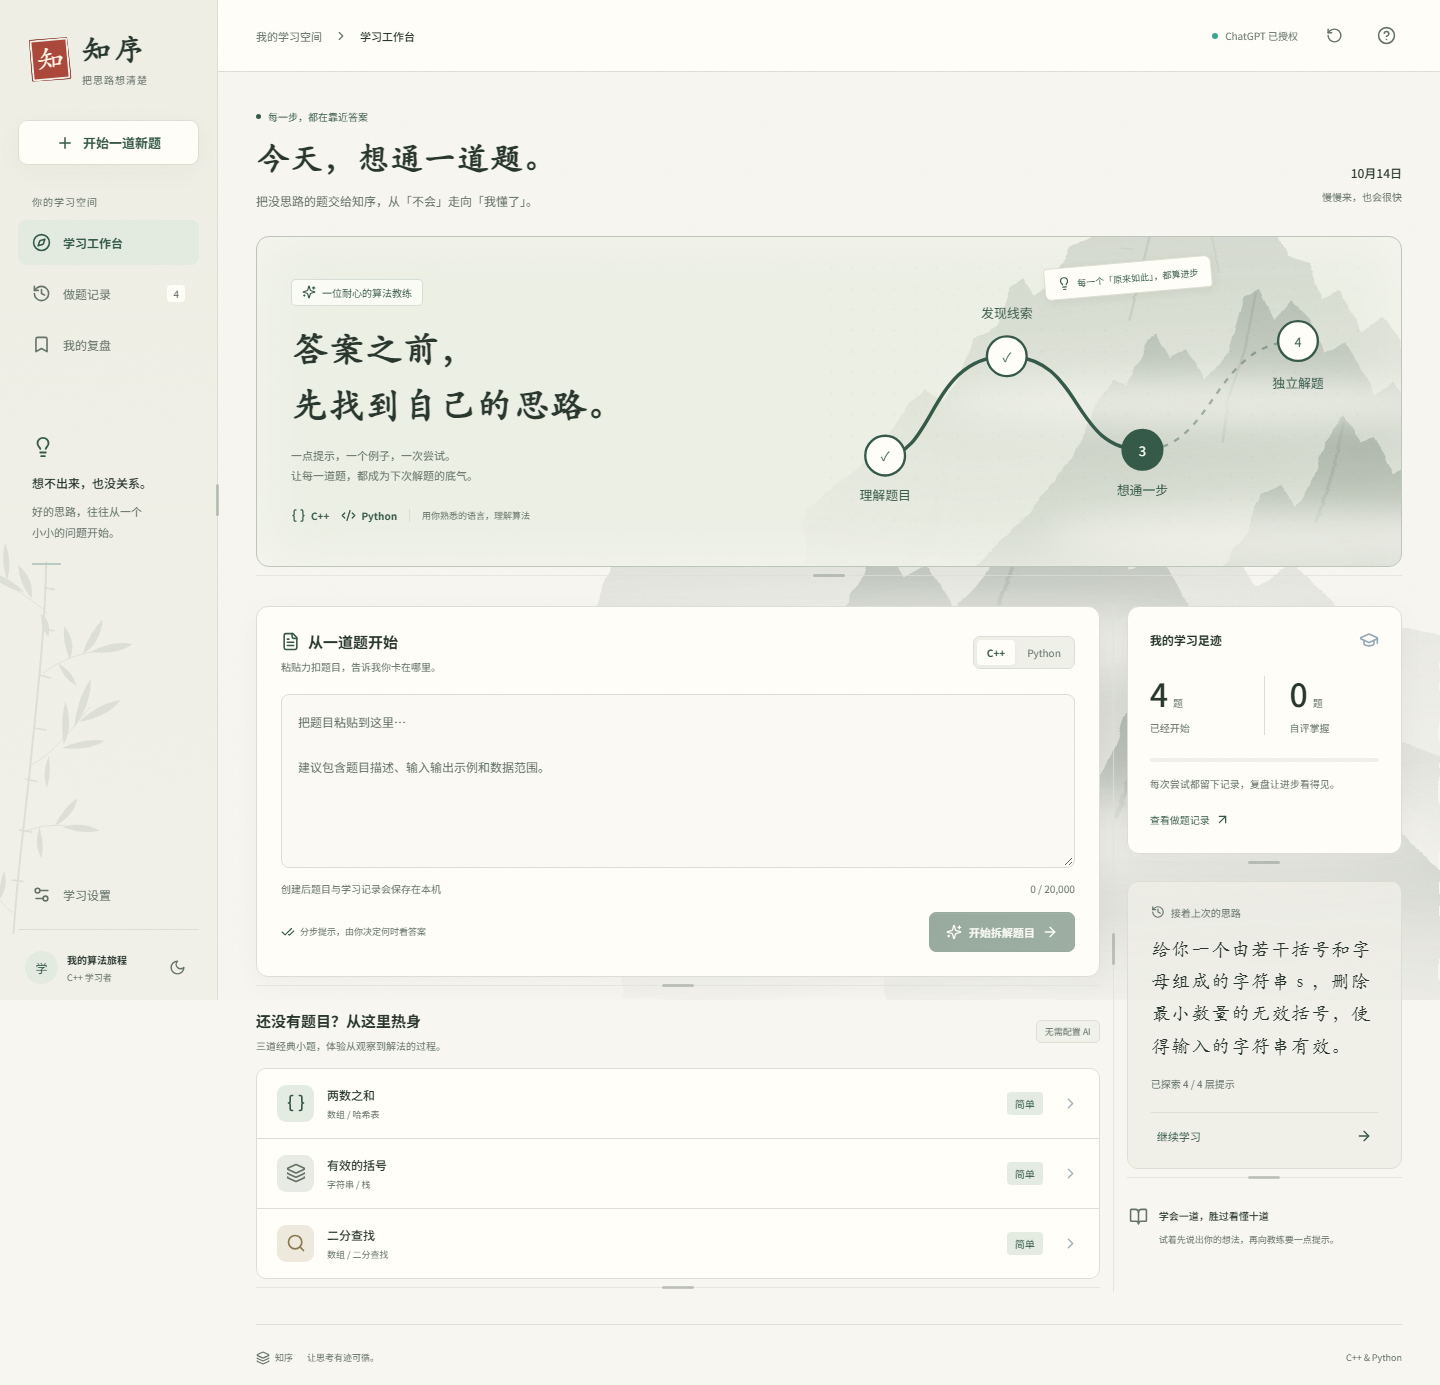
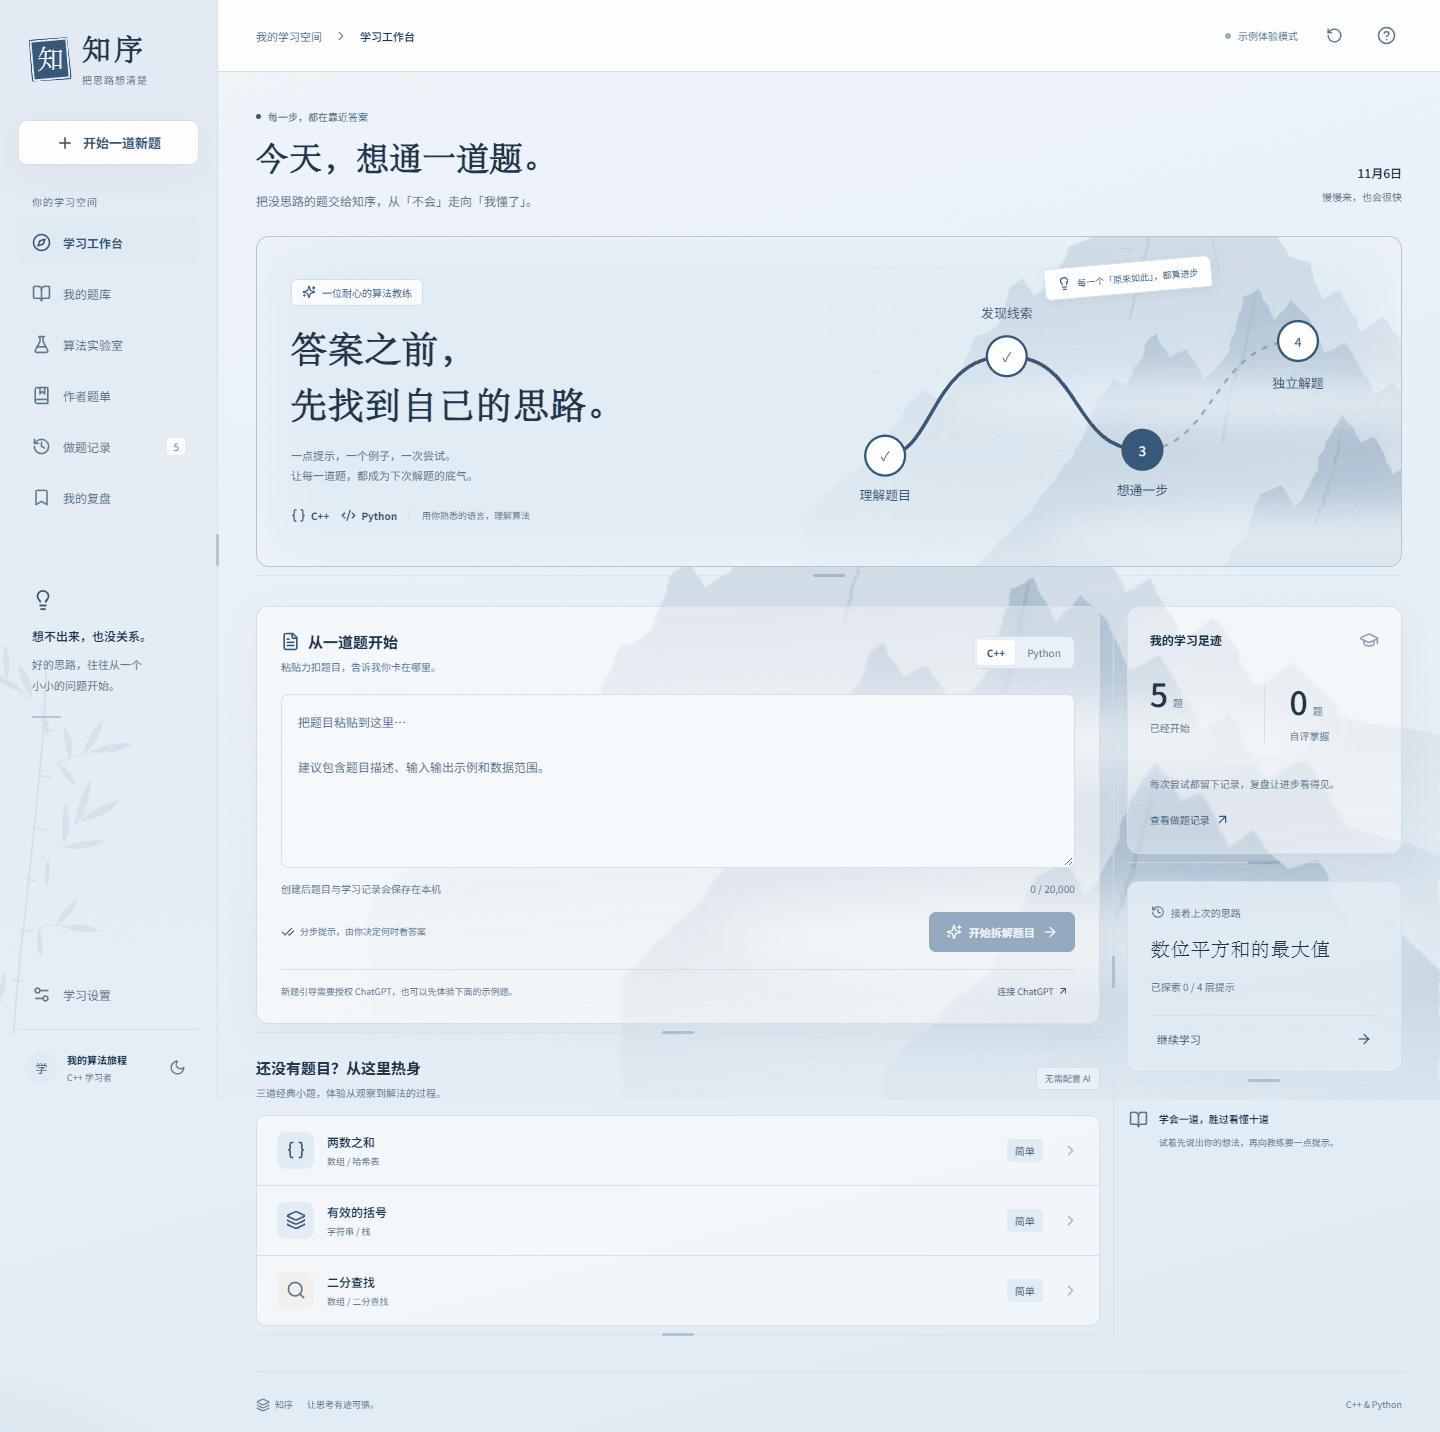
docs: 更新 UI 重构后的界面截图与主题说明

diff --git a/README.md b/README.md
@@ -7,11 +7,11 @@ learning log and review notes. 知序 · 让思路先于答案。
 [![CI](https://github.com/baiyujing-rain/zhixu/actions/workflows/ci.yml/badge.svg)](https://github.com/baiyujing-rain/zhixu/actions/workflows/ci.yml)
 [![License: MIT](https://img.shields.io/badge/License-MIT-blue.svg)](LICENSE)
 
-An ink-wash "algorithm study" — paste a problem, walk the guided path from
+A celadon-blue "algorithm study" — paste a problem, walk the guided path from
 reading the question to your own solution, with deterministic algorithm
 animations along the way.
 
-![Zhixu home — ink-wash algorithm study](docs/images/home.png)
+![Zhixu home — celadon-blue algorithm study](docs/images/home.png)
 
 ## Features
 
